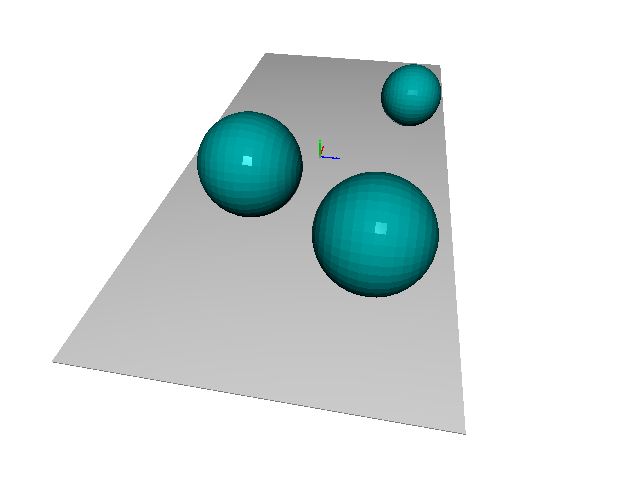
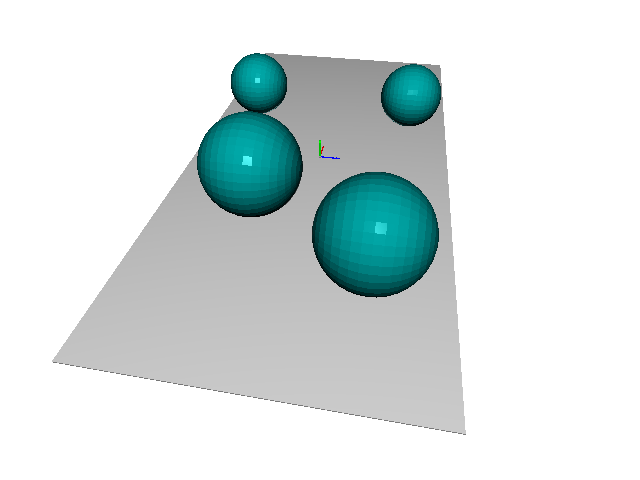
task 2

Changed region(s): [[0.3438, 0.0938, 0.4688, 0.25]]

diff --git a/calway/Lab5-3D-from-stereo/LabI-v2.py b/calway/Lab5-3D-from-stereo/LabI-v2.py
@@ -107,6 +107,16 @@ if __name__ == '__main__':
     Write your code here to define another sphere
     in world coordinate frame
     '''
+    name_list.append('sphere_4')
+    sph_mesh=o3d.geometry.TriangleMesh.create_sphere(radius=1.5)
+    mesh_list.append(sph_mesh)
+    H_list.append(np.array(
+        [[1, 0, 0, 4],
+         [0, 1, 0, 1.5],
+         [0, 0, 1, -4],
+         [0, 0, 0, 1]]
+    ))
+    RGB_list.append([0., 0.5, 0.5])
     #########################################
 
 
